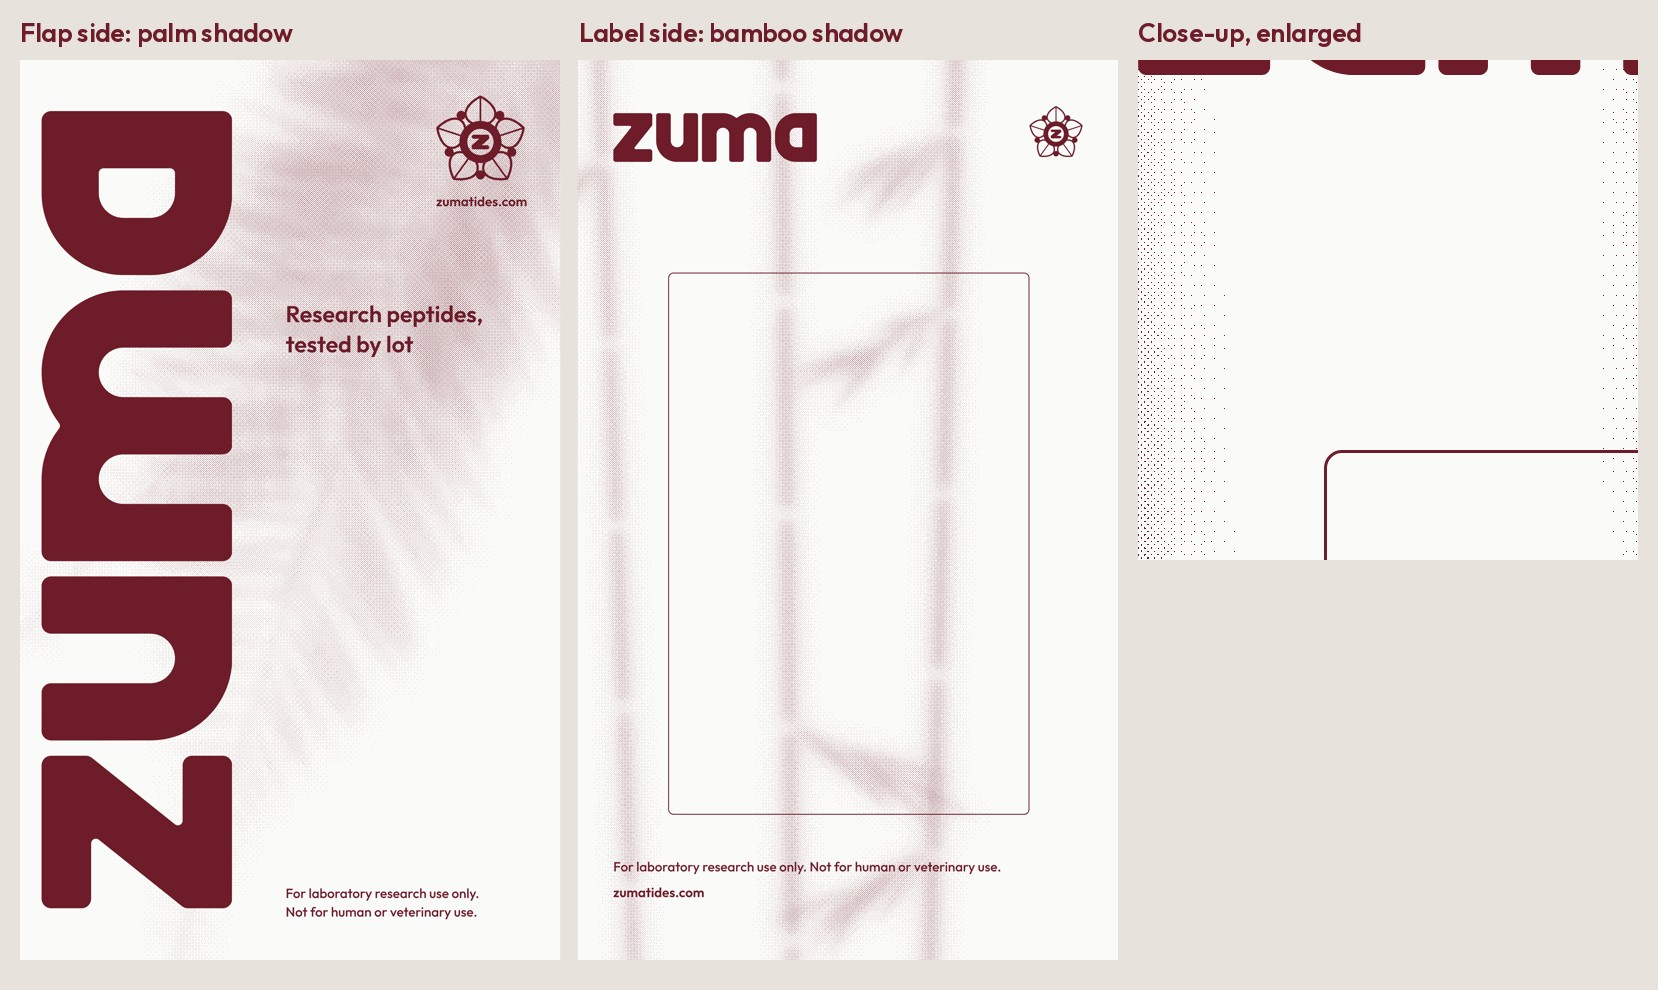
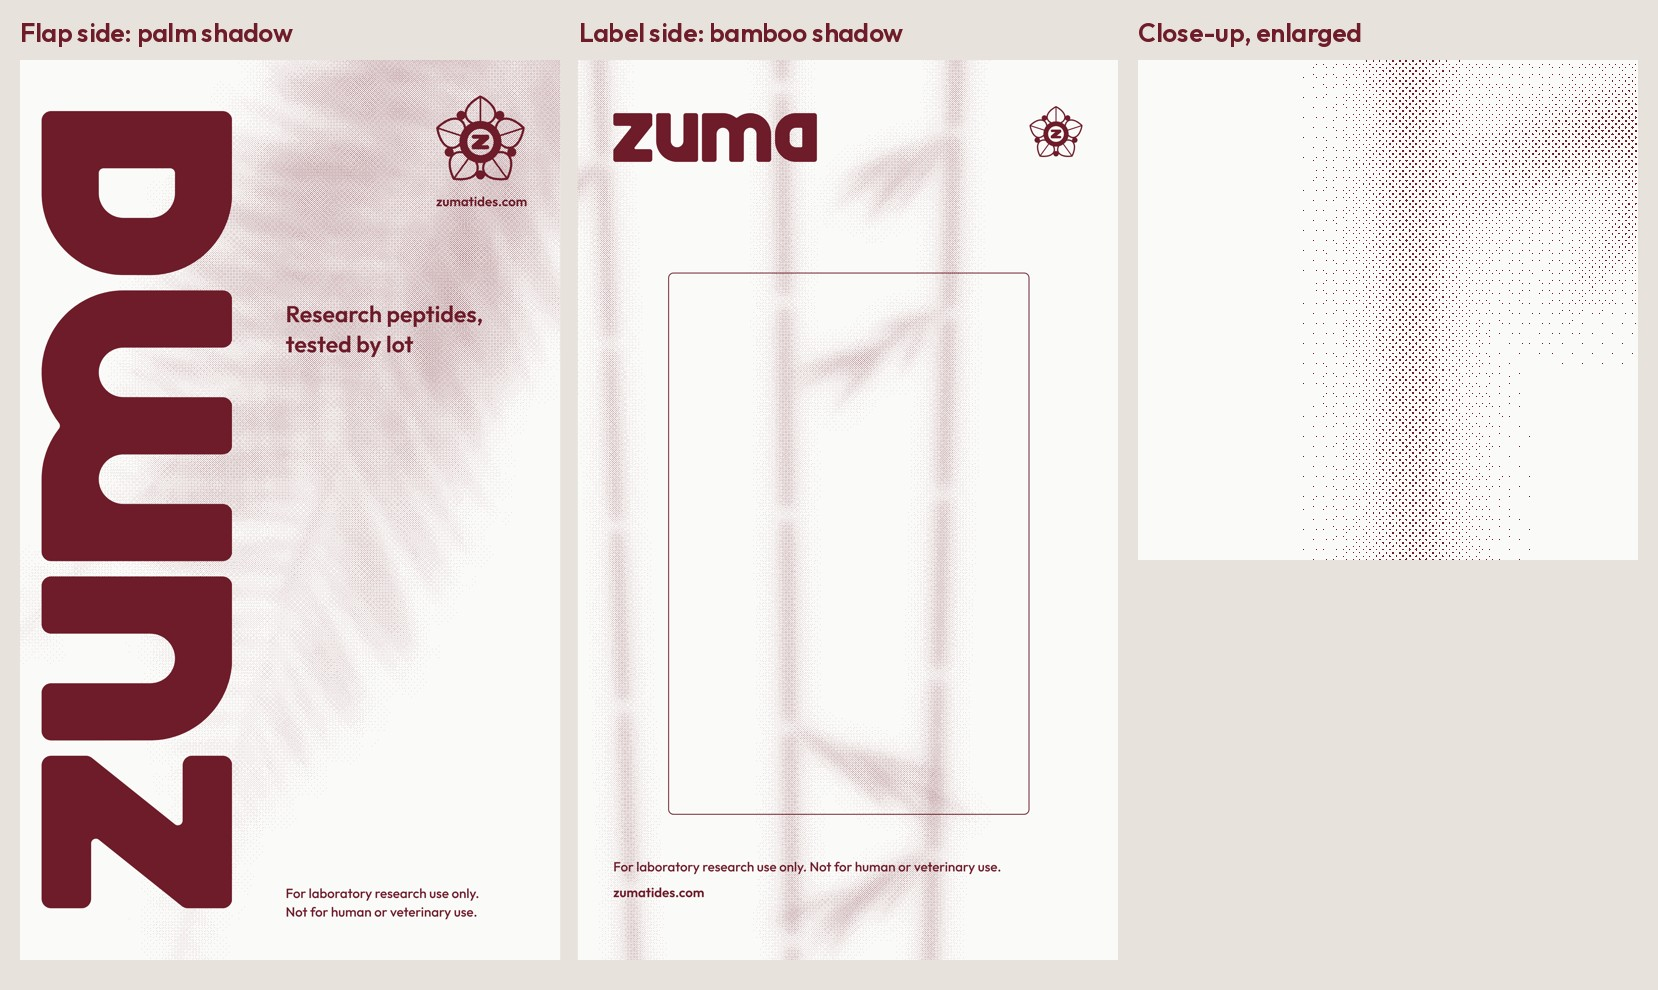
Mailer B board: close-up on a bamboo stalk
Claude-Session: https://claude.ai/code/session_01WtTNMTJadupUSrfLNmJCKv

Changed region(s): [[0.7998, 0.0606, 1.0, 0.5455], [0.6767, 0.0606, 0.769, 0.0909], [0.9536, 0.4545, 0.9843, 0.4848]]

diff --git a/zuma-content/packaging/mailer-shadow/source/compose.py b/zuma-content/packaging/mailer-shadow/source/compose.py
@@ -20,7 +20,7 @@ for sh, fx, fy in ((palm, 0.6, 0.3), (bamboo, 0.5, 0.4)):
     d = halftone(a); faces.append(PAPER * (1 - d[..., None]) + OX * d[..., None])
 img = Image.fromarray(np.concatenate(faces, 1).astype('uint8')).convert('RGBA'); img.alpha_composite(T); img.convert('RGB').save(S + '/mailer/B-print.png')
 f = ImageFont.truetype(S + '/font/Outfit-600.ttf', 26); sm = lambda im: im.resize((im.width * 900 // im.height, 900))
-z = img.crop((fw + 120, 330, fw + 620, 830)).convert('RGB')
+z = img.crop((fw + 430, 950, fw + 930, 1450)).convert('RGB')
 rgb = img.convert('RGB'); sp = Image.new('RGB', (W + 60, H), '#E7E3DC'); sp.paste(rgb.crop((0, 0, fw, H)), (0, 0)); sp.paste(rgb.crop((fw, 0, W, H)), (fw + 60, 0)); a1 = sm(sp)
 board = Image.new('RGB', (a1.width + 560, 990), '#E7E3DC'); board.paste(a1, (20, 60)); board.paste(z, (a1.width + 40, 60)); dr = ImageDraw.Draw(board)
 dr.text((20, 16), 'Flap side: palm shadow', fill='#6E1C2A', font=f); dr.text((20 + a1.width // 2 + 10, 16), 'Label side: bamboo shadow', fill='#6E1C2A', font=f)
